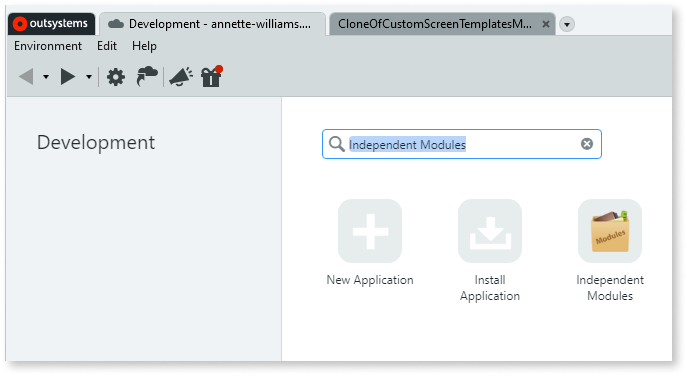
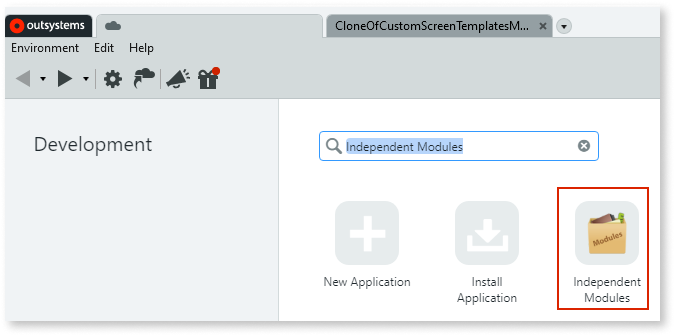
Updated Creating Screen Templates procedure. New screenshots

diff --git a/src/develop/ui/screen-templates-create/intro.md b/src/develop/ui/screen-templates-create/intro.md
@@ -7,7 +7,7 @@ tags: support-Mobile_Apps-featured; support-webapps-featured
 
 Create new Screen Templates and make them available in your environment by adding them to a Custom Screen Templates Module.
 
-## Creating Custom Screen Templates Module
+## Creating custom screen templates module
 
 To add new Screen Templates to your environment, you first need at least one clone of [Custom Screen Templates Web](<https://www.outsystems.com/forge/component-overview/5089/custom-screen-templates-web>) or [Custom Screen Templates Mobile](<https://www.outsystems.com/forge/component-overview/5060/custom-screen-templates-mobile>).
 
@@ -45,34 +45,61 @@ To add new Screen Templates to your environment, you first need at least one clo
 
     ![Cloned module ](images/forge-7-ss.png)
 
-1. Go to **Independent Modules** and move your Custom Screen Templates Module to another application. Move your mouse pointer over the module name to reveal the **Move to**
- command, and then click it.
+1. From **Independent Modules**, move your Custom Screen Templates Module to another application. 
+
+    To do this, click the Move module icon, select the application you want to move the template to, and click **Move**.
     
-   ![Independent modules](images/cloned-in-independent-modules.png)
+    ![Move module](images/forge-8-ss.png)
+        
+    ![Select application](images/forge-9-ss.png)
 
-## Creating new Screen Templates
+    You're template is now moved to the selected application.
 
-Follow these steps to create new Screen Templates.
 
-1. Open the Custom Screen Templates Module where you want to add new Screen Templates. If you don't have such module, follow the [instructions for creating it](<#creating-custom-screen-templates-module>) and then return to this section.
-1. Go to the **Interface** tab and in the **UI Flows** folder right-click the **ScreenTemplates** flow. Select **Add Web Screen** (or **Add Mobile Screen**) from the context menu.
-1. In the **New Screen** window select either a Screen Template with some content to bootstrap your template or choose **Empty**. Click **Create Screen**. A new Screen shows, with a message "You are editing a Screen Template" at the top.
-1. If you selected **Empty** in the previous step, go to the **UI Flows** folder, expand the **Common** folder, drag the **Layout** block and drop it to the Screen.
+## Creating new screen templates
+
+1. Open the Custom Screen Templates Module where you want to add new Screen Template. If you don't have such module, follow the [instructions for creating it](<#creating-custom-screen-templates-module>) and then return to this section.
+
+1. Go to the **Interface** tab and in the **UI Flows** folder, right-click your screen template flow and select **Add  Screen**.
+
+    ![Add new screen](images/forge-10-ss.png)
+
+1. In the **New Screen** window select either a Screen Template with some content to bootstrap your template or choose **Empty** and click **Create Screen**. 
+
+    In this example, we select **Empty**.
+
+    ![Select new screen type](images/forge-11-ss.png)
+
+    The new screen opens with a warning message: "You are editing a Screen Template. Check the guidelines." .
+
+     ![Warning message](images/forge-12-ss.png)
+
+1. Go to the **UI Flows** folder, expand the **Common** folder, and drag the **Layout** block onto the screen.
+
+    ![Drag layout block to screen](images/forge-13-ss.png)
+
+    Note: This step only applies if you selected the **Empty** screen in the previous step.
+
 1. [Set the preview image](<reference-metadata.md#preview-image>) and enter the [metadata](<reference-metadata.md>) for the Screen Template.
-1. Publish the module. Your Screen Template is now available to all developers in the environment.
 
-![Editing a Screen Template](images/creating-screen-template.png?width=500)
+1. Publish the module.
 
-## Editing Screen Templates
+    Your Screen Template is now available to all developers in the environment.
 
-Edit your Screen Templates in your Custom Screen Templates Module. Republish the module to update the Screen Templates in the environment. Keep in mind that editing an existing Screen Template does not affect Screens that are already created from it.
+    ![Editing a Screen Template](images/creating-screen-template.png?width=500)
 
-## Creating Screen Templates with custom Theme
+## Editing screen templates
 
-You can use a different Theme in each Custom Screen Templates Module. Screen Templates inherit the styles from the Theme.
+You can edit your Screen Templates in your Custom Screen Templates Module. Republish the module to update the Screen Templates in the environment. Keep in mind that editing an existing Screen Template does not affect screens that are already created from it.
+
+## Creating screen templates with a custom theme
+
+You can use a different Theme in each Custom Screen Template Module. Screen Templates inherit the styles from the Theme.
 
 1. Follow the steps for [creating a Custom Screen Templates Module](<#creating-custom-screen-templates-module>).
-1. Edit the module so it uses your Theme. The Custom Screen Templates Modules from Forge use BaseTheme, the default Theme from OutSystems UI.
+
+1. Edit the module so it uses your Theme. The Custom Screen Templates Modules from Forge uses BaseTheme, the default Theme from OutSystems UI.
+
 1. Follow the steps for [creating new Screen Templates](<#creating-new-screen-templates>).
 
 OutSystems provides the following Forge components to assist you in creating your own style guide and Screen Templates:
